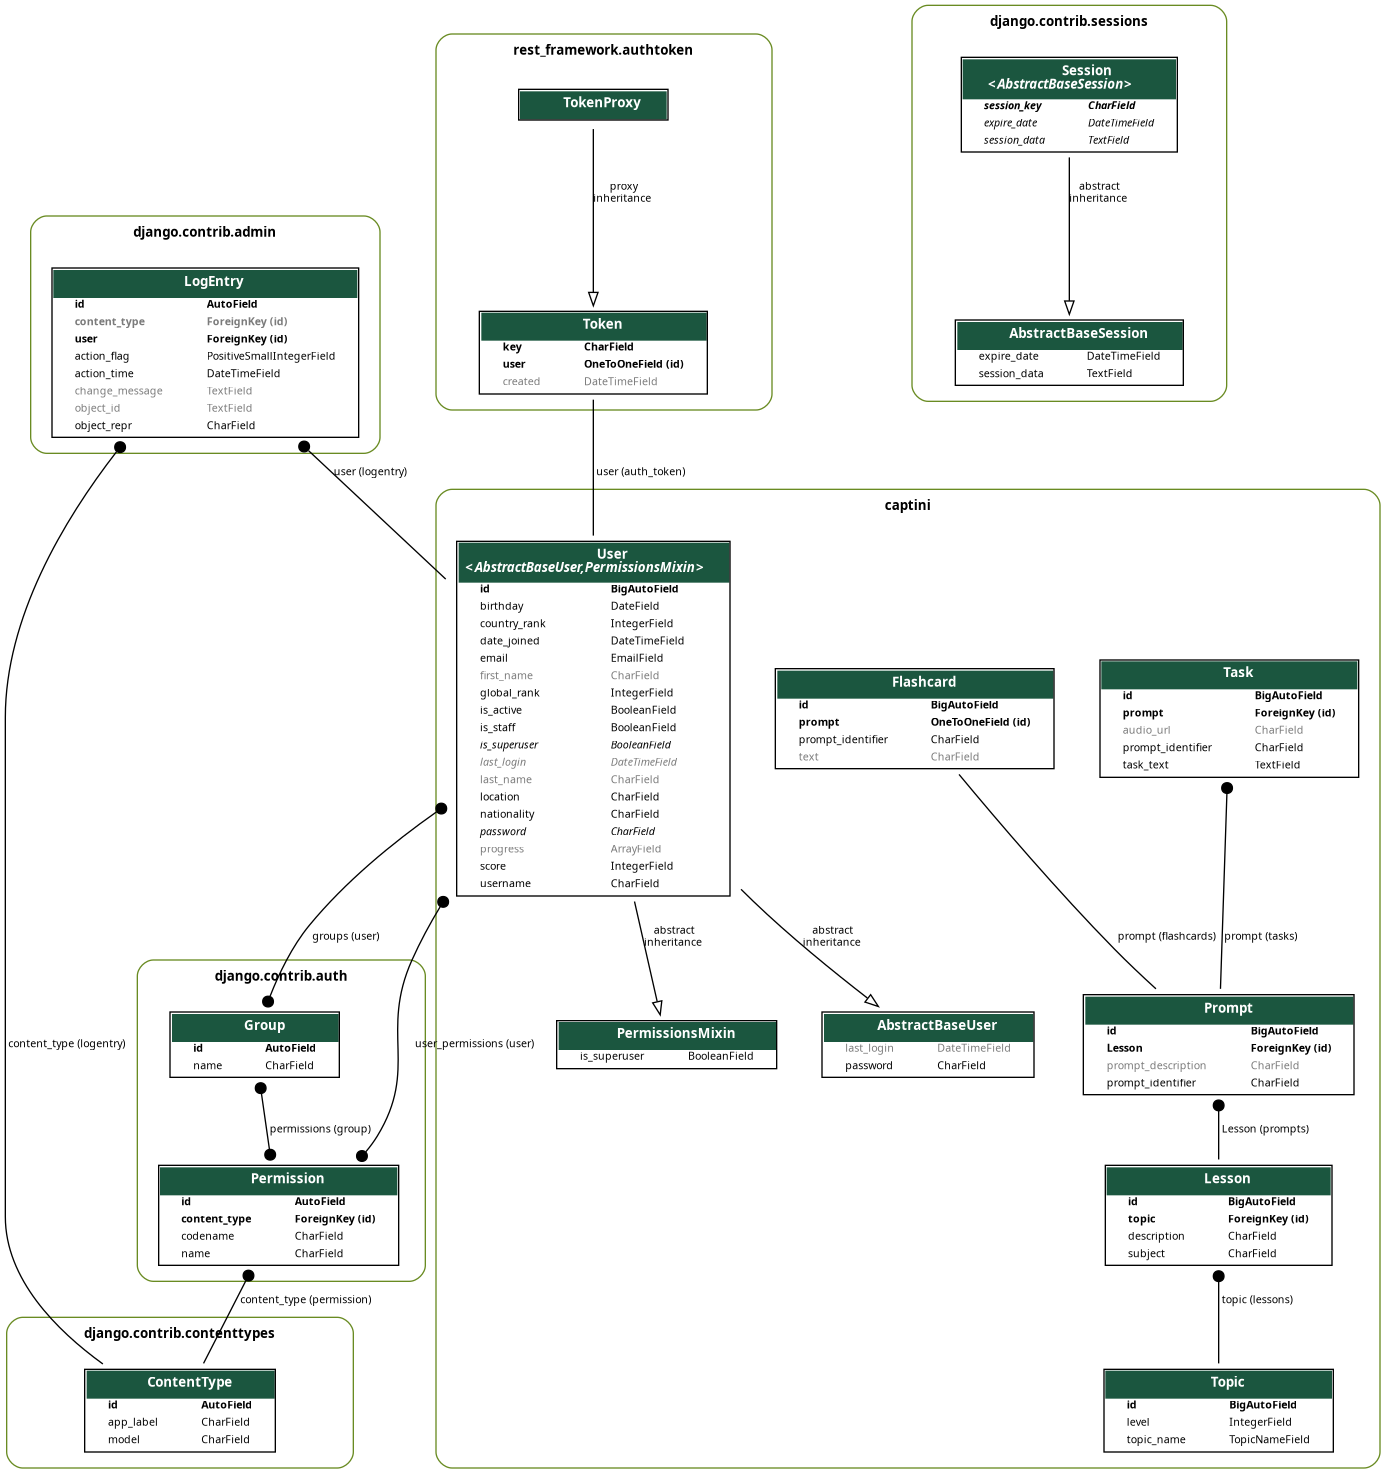
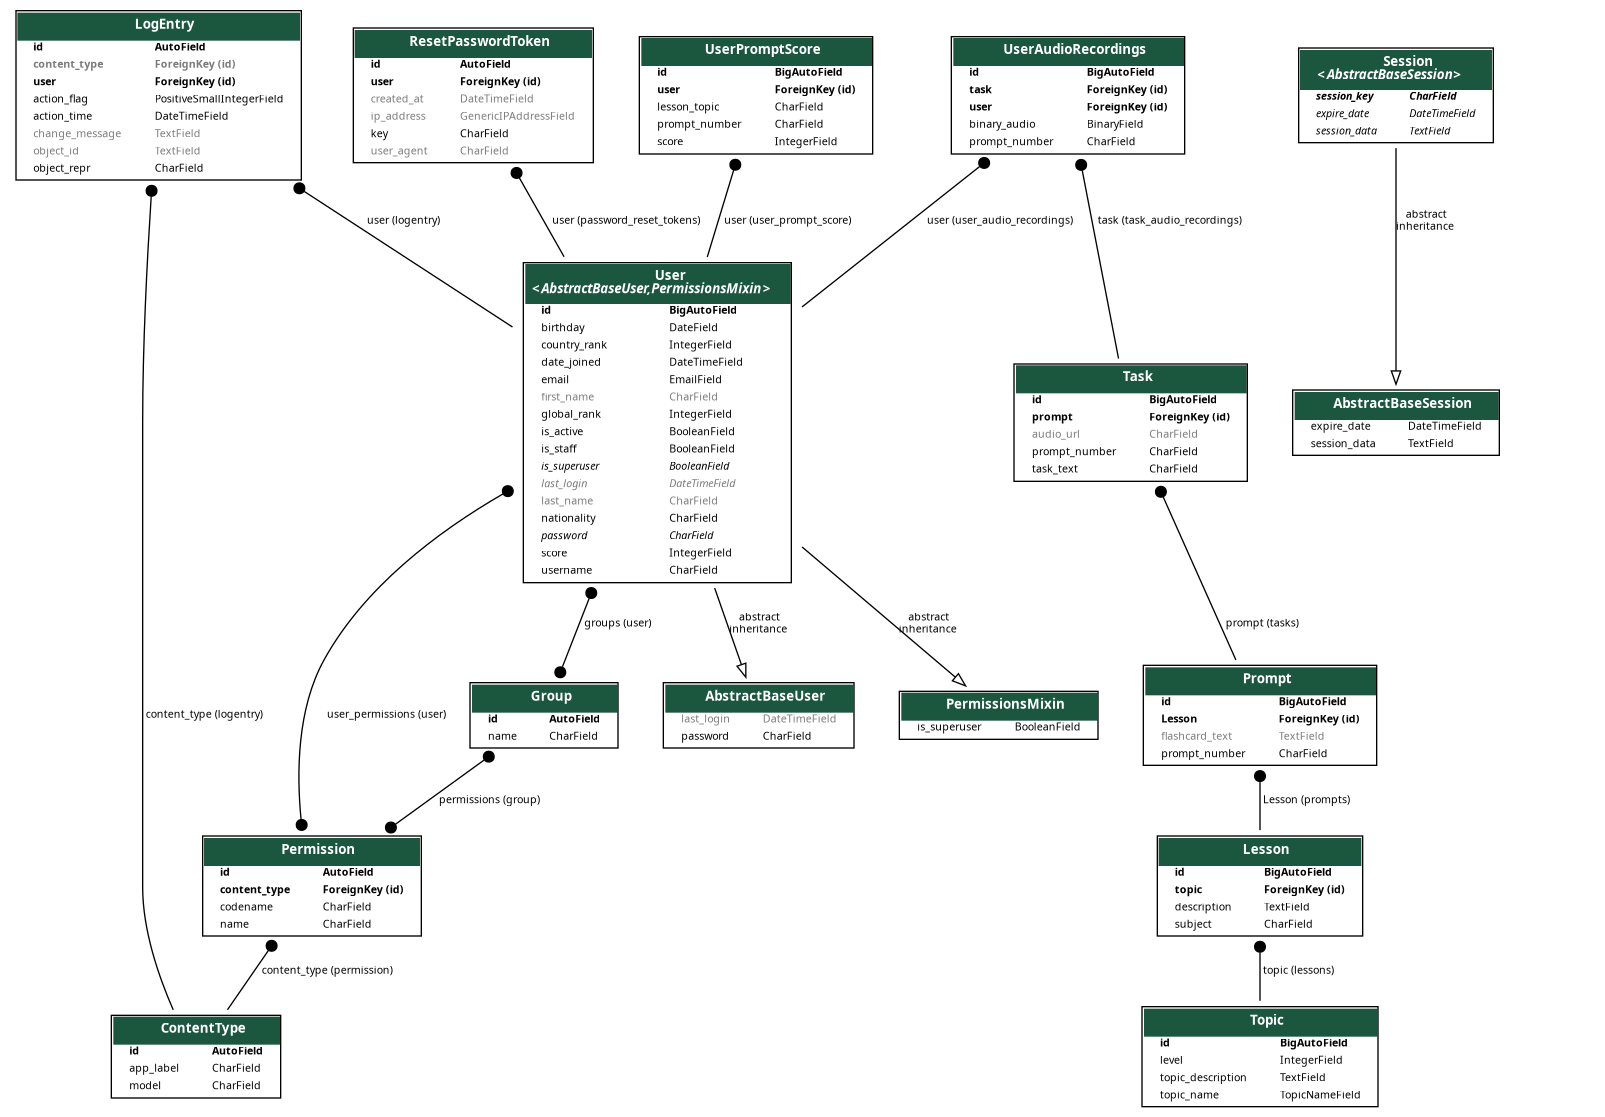
wip: work started on upload request

diff --git a/captini/views.py b/captini/views.py
@@ -16,7 +16,6 @@ from rest_framework.permissions import AllowAny
 from rest_framework import status
 from rest_framework_simplejwt.tokens import RefreshToken
 from rest_framework_simplejwt.exceptions import TokenError, InvalidToken
-from captini.serializers import LoginSerializer, RegisterSerializer
 from rest_framework import viewsets
 from rest_framework.response import Response
 from rest_framework.request import Request
@@ -70,38 +69,29 @@ class UserList(viewsets.ModelViewSet):
         user = self.get_object()
         return Response(user)
 
-class UserDetails(generics.RetrieveAPIView):
+class UserDetails(generics.RetrieveUpdateAPIView):
 
     queryset = User.objects.all()
     serializer_class = UserDetailsSerializer
+
+class UploadAudio(generics.CreateAPIView):
+
+    serializer_class = AudioRecordingsSerializer
     permission_classes = (IsAuthenticated,)
+    http_method_names = ['post']
 
-#class UserCreate(generics.CreateAPIView):
-#    
-#    queryset = User.objects.all()
-#    serializer_class = RegisterSerializer
+    def create(self, request, *args, **kwargs):
+        serializer = self.serializer(data=request.data)
+        print(request.data)
+        if serializer.is_valid:
+            recording = serializer.save(user=request.user, task=self.kwargs['pk'])
 
-#class UserProgress(generics.ListAPIView):
-#    lesson_id_list = self.request.user.lesson_id_list
-#    print(lesson_id_list)
-#    queryset = Lesson.objects.filter(pk__in=lesson_id_list)
-#    serializer_class = LessonSerializer
-
-#class UserLogin(generics.GenericAPIView):
-#
-#    serializer_class = LoginSerializer
-#
-#    def post(self,request):
-#        data = request.data
-#        username = data.get('username')
-#        password = data.get('password')
-#        user = authenticate(username=username, password=password)
-#        if user is not None:
-#            serializer = self.serializer_class(user)
-#            print(serializer.data)
-#            login(request, user)
-#            return Response(serializer.data, status=status.HTTP_200_OK)
-#        return Response(status=status.HTTP_401_UNAUTHORIZED)
+        try:
+            serializer.is_valid(raise_exception=True)
+        except AuthenticationError as e:
+            raise NotAuthenticatedException(e.args[0])
+        
+        return Response(serializer.validated_data, status=status.HTTP_200_OK)
 
 class LoginViewSet(ModelViewSet, TokenObtainPairView):
     serializer_class = LoginSerializer
@@ -124,7 +114,7 @@ class RegistrationViewSet(ModelViewSet, TokenObtainPairView):
     permission_classes = (AllowAny,)
     http_method_names = ['post']
 
-    def create(self, request, *args, **kwargs):
+    def create(self, validated_data):
         serializer = self.get_serializer(data=request.data)
 
         serializer.is_valid(raise_exception=True)

diff --git a/captini/serializers.py b/captini/serializers.py
@@ -1,4 +1,4 @@
-from captini.models import User, Topic, Lesson, Prompt, Task, UserPromptScore
+from captini.models import User, Topic, Lesson, Prompt, Task, UserPromptScore, UserAudioRecordings
 from rest_framework import serializers
 from rest_framework_simplejwt.serializers import TokenObtainPairSerializer
 from rest_framework_simplejwt.settings import api_settings
@@ -11,8 +11,6 @@ from django.core.exceptions import ObjectDoesNotExist
 from rest_framework.validators import UniqueValidator
 from django.contrib.auth.password_validation import validate_password
 
-
-
 factory = APIRequestFactory()
 request = factory.get('/')
 
@@ -24,7 +22,6 @@ class UserPromptScoreSerializer(serializers.ModelSerializer):
         ordering = ['-id']
 
 class UserDetailsSerializer(serializers.ModelSerializer):
-    user_prompt_score = UserPromptScoreSerializer(many=True)
 
     class Meta:
         model = User
@@ -42,7 +39,6 @@ class UserDetailsSerializer(serializers.ModelSerializer):
             "score",
             "global_rank",
             "country_rank",
-            "user_prompt_score",
         ]
         ordering = ['-id']
 
@@ -62,6 +58,8 @@ class UserListSerializer(serializers.ModelSerializer):
         ordering = ['-id']
 
 class RegisterSerializer(serializers.ModelSerializer):
+
+    birthday = serializers.DateField(format="%d-%m-%Y", input_formats=['%d-%m-%Y', 'iso-8601'])
     
     email = serializers.EmailField(
             required=True,
@@ -80,7 +78,6 @@ class RegisterSerializer(serializers.ModelSerializer):
             'first_name', 
             'last_name', 
             'nationality',
-            #"spoken_languages",
             'birthday'
             ]
 
@@ -161,21 +158,9 @@ class TopicSerializer(serializers.ModelSerializer):
         fields = ['id', 'topic_name', 'level', 'lessons']
         ordering = ['-id']
 
+class  AudioRecordingsSerializer(serializers.ModelSerializer):
 
-    #def create(self, validated_data):
-    #    topic_data = validated_data.pop('lessons')
-    #    topic = Topic.objects.create(**validated_data)
-    #    for lesson_data in topic_data:
-    #        Lesson.objects.create(topic=topic, **lesson_data)
-    #    return topic
+    class Meta:
+        model = UserAudioRecordings
+        fields = ['id', 'binary_audio']
 
-#class LessonsCompletedSerializer(serializers.ModelSerializer):
-#    user = request.user
-#    lesson_id_list = user.get('progress')
-#    print(lesson_id_list)
-#    prompts = PromptSerializer(many=True)
-
-#    class Meta:
-#        model = Lesson
-#        fields = ['id', 'subject', 'description', 'prompts']
-#

diff --git a/captini/migrations/0001_initial.py b/captini/migrations/0001_initial.py
@@ -1,4 +1,4 @@
-# Generated by Django 4.0.3 on 2022-06-29 16:04
+# Generated by Django 4.0.3 on 2022-07-11 11:11
 
 import captini.models
 import datetime
@@ -67,6 +67,16 @@ class Migration(migrations.Migration):
             },
         ),
         migrations.CreateModel(
+            name='Task',
+            fields=[
+                ('id', models.BigAutoField(auto_created=True, primary_key=True, serialize=False, verbose_name='ID')),
+                ('prompt_number', models.CharField(max_length=25)),
+                ('task_text', models.CharField(max_length=255, verbose_name='task text')),
+                ('audio_url', models.CharField(blank=True, max_length=500, verbose_name='audio url')),
+                ('prompt', models.ForeignKey(on_delete=django.db.models.deletion.CASCADE, related_name='tasks', to='captini.prompt')),
+            ],
+        ),
+        migrations.CreateModel(
             name='Topic',
             fields=[
                 ('id', models.BigAutoField(auto_created=True, primary_key=True, serialize=False, verbose_name='ID')),
@@ -92,14 +102,17 @@ class Migration(migrations.Migration):
             },
         ),
         migrations.CreateModel(
-            name='Task',
+            name='UserAudioRecordings',
             fields=[
                 ('id', models.BigAutoField(auto_created=True, primary_key=True, serialize=False, verbose_name='ID')),
-                ('prompt_number', models.CharField(max_length=25)),
-                ('task_text', models.CharField(max_length=255, verbose_name='task text')),
-                ('audio_url', models.CharField(blank=True, max_length=500, verbose_name='audio url')),
-                ('prompt', models.ForeignKey(on_delete=django.db.models.deletion.CASCADE, related_name='tasks', to='captini.prompt')),
+                ('prompt_number', models.CharField(max_length=25, unique=True)),
+                ('binary_audio', models.BinaryField()),
+                ('task', models.ForeignKey(on_delete=django.db.models.deletion.CASCADE, related_name='task_audio_recordings', to='captini.task')),
+                ('user', models.ForeignKey(on_delete=django.db.models.deletion.CASCADE, related_name='user_audio_recordings', to=settings.AUTH_USER_MODEL)),
             ],
+            options={
+                'ordering': ['user', 'task'],
+            },
         ),
         migrations.AddField(
             model_name='lesson',

diff --git a/captini/admin.py b/captini/admin.py
@@ -1,6 +1,6 @@
 from django import forms
 from django.contrib import admin
-from .models import User, Topic, Lesson, Prompt, Task, UserPromptScore
+from .models import User, Topic, Lesson, Prompt, Task, UserPromptScore, UserAudioRecordings
 from django.contrib.auth.forms import ReadOnlyPasswordHashField
 import nested_admin
 
@@ -127,6 +127,10 @@ class TopicAdmin(nested_admin.NestedModelAdmin):
 class UserPromptScoreAdmin(admin.ModelAdmin):
     pass
 
+class UserAudioRecordingsAdmin(admin.ModelAdmin):
+    model = UserAudioRecordings
+
 admin.site.register(User, UserAdmin)
 admin.site.register(Topic, TopicAdmin)
 admin.site.register(UserPromptScore, UserPromptScoreAdmin)
+admin.site.register(UserAudioRecordings, UserAudioRecordingsAdmin)

diff --git a/captini/models.py b/captini/models.py
@@ -177,6 +177,19 @@ class UserPromptScore(models.Model):
         return self.prompt_number
 
 
+class UserAudioRecordings(models.Model):
+    user = models.ForeignKey(User, related_name='user_audio_recordings', on_delete=models.CASCADE)
+    task = models.ForeignKey(Task, related_name='task_audio_recordings', on_delete=models.CASCADE)
+    prompt_number = models.CharField(max_length=25, blank=False, unique=True)
+    binary_audio = models.BinaryField(blank=False, null=False)
+
+    class Meta:
+        ordering = ['user', 'task']
+
+    def __str__(self):
+        return self.id
+
+
 @receiver(reset_password_token_created)
 def password_reset_token_created(sender, instance, reset_password_token, *args, **kwargs):
 

diff --git a/captini/urls.py b/captini/urls.py
@@ -16,6 +16,7 @@ urlpatterns = [
     path("users/<int:pk>/", views.UserDetails.as_view(), name="user-detail"),
 #    path("users/signup/", views.UserCreate.as_view(), name="user-create"),
 #    path("users/login/", views.UserLogin.as_view(), name="user-login"),
+    path("api/upload/task/<int:pk>", views.UploadAudio.as_view(), name="upload"),
     path("api/auth/logout/", views.user_logout, name="user-logout"),
     path('api/change-password/', views.ChangePasswordView.as_view(), name='change-password'),
     path('api/password_reset/', include('django_rest_passwordreset.urls', namespace='password_reset')),

diff --git a/CaptiniAPI/settings.py b/CaptiniAPI/settings.py
@@ -184,6 +184,9 @@ USE_TZ = True
 
 STATIC_URL = "static/"
 
+DATE_INPUT_FORMATS = ['%d-%m-%Y']
+
+
 # Default primary key field type
 # https://docs.djangoproject.com/en/4.0/ref/settings/#default-auto-field
 
